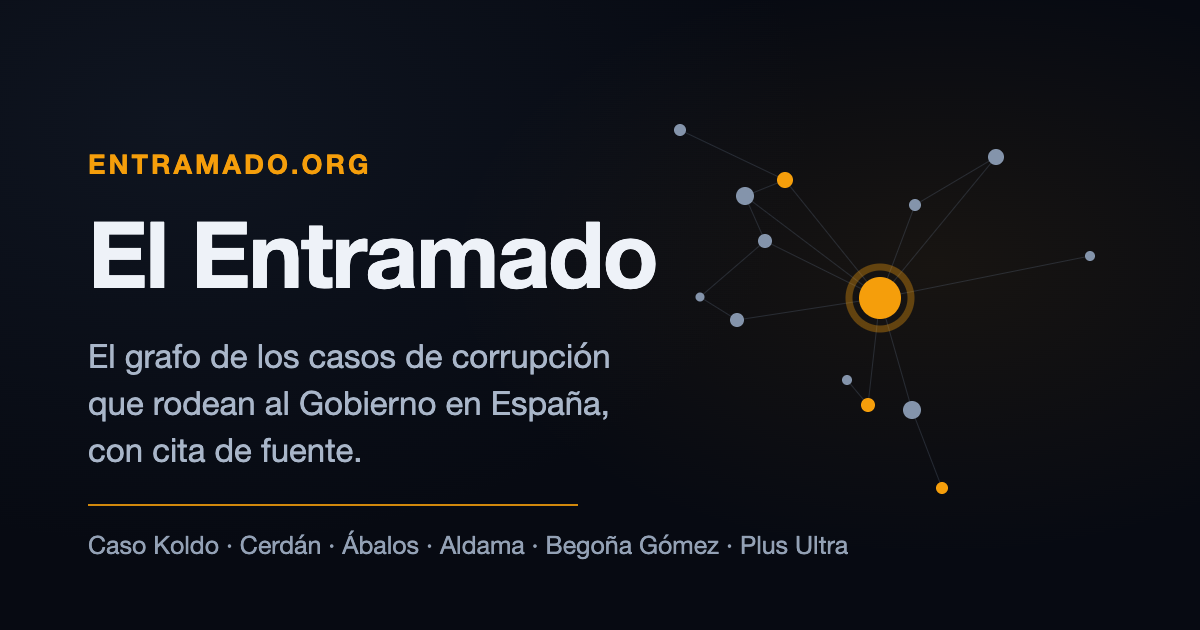
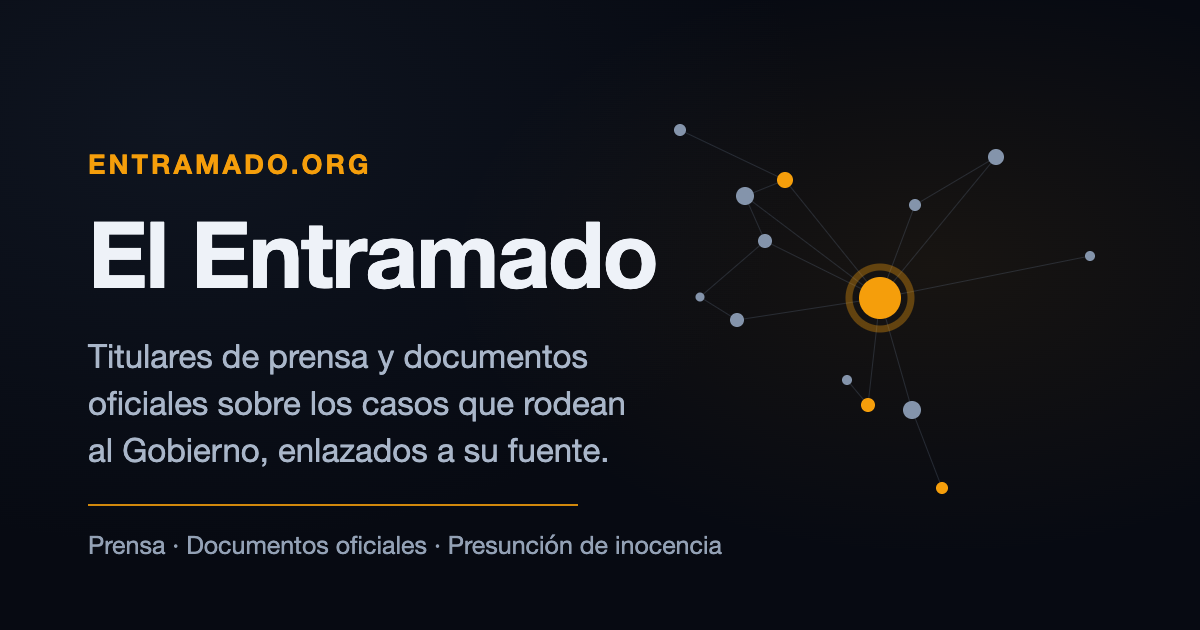
Spec 077: tarjeta OG y texto alternativo sin «grafo» ni nombres de personas
Claude-Session: https://claude.ai/code/session_01LFPNqxCV6qBn6tjzgQ1VYE

Changed region(s): [[0.0617, 0.5429, 0.5242, 0.6635], [0.0617, 0.8444, 0.7092, 0.9048], [0.0617, 0.6937, 0.4933, 0.754]]

diff --git a/web/scripts/opengraph-image.html b/web/scripts/opengraph-image.html
@@ -113,12 +113,12 @@
     <div class="badge">ENTRAMADO.ORG</div>
     <h1>El Entramado</h1>
     <div class="tagline">
-      El grafo de los casos de corrupción<br />
-      que rodean al Gobierno en España,<br />
-      con cita de fuente.
+      Titulares de prensa y documentos<br />
+      oficiales sobre los casos que rodean<br />
+      al Gobierno, enlazados a su fuente.
     </div>
     <div class="rule"></div>
-    <div class="cases">Caso Koldo &middot; Cerdán &middot; Ábalos &middot; Aldama &middot; Begoña Gómez &middot; Plus Ultra</div>
+    <div class="cases">Prensa &middot; Documentos oficiales &middot; Presunción de inocencia</div>
   </div>
 </body>
 </html>
